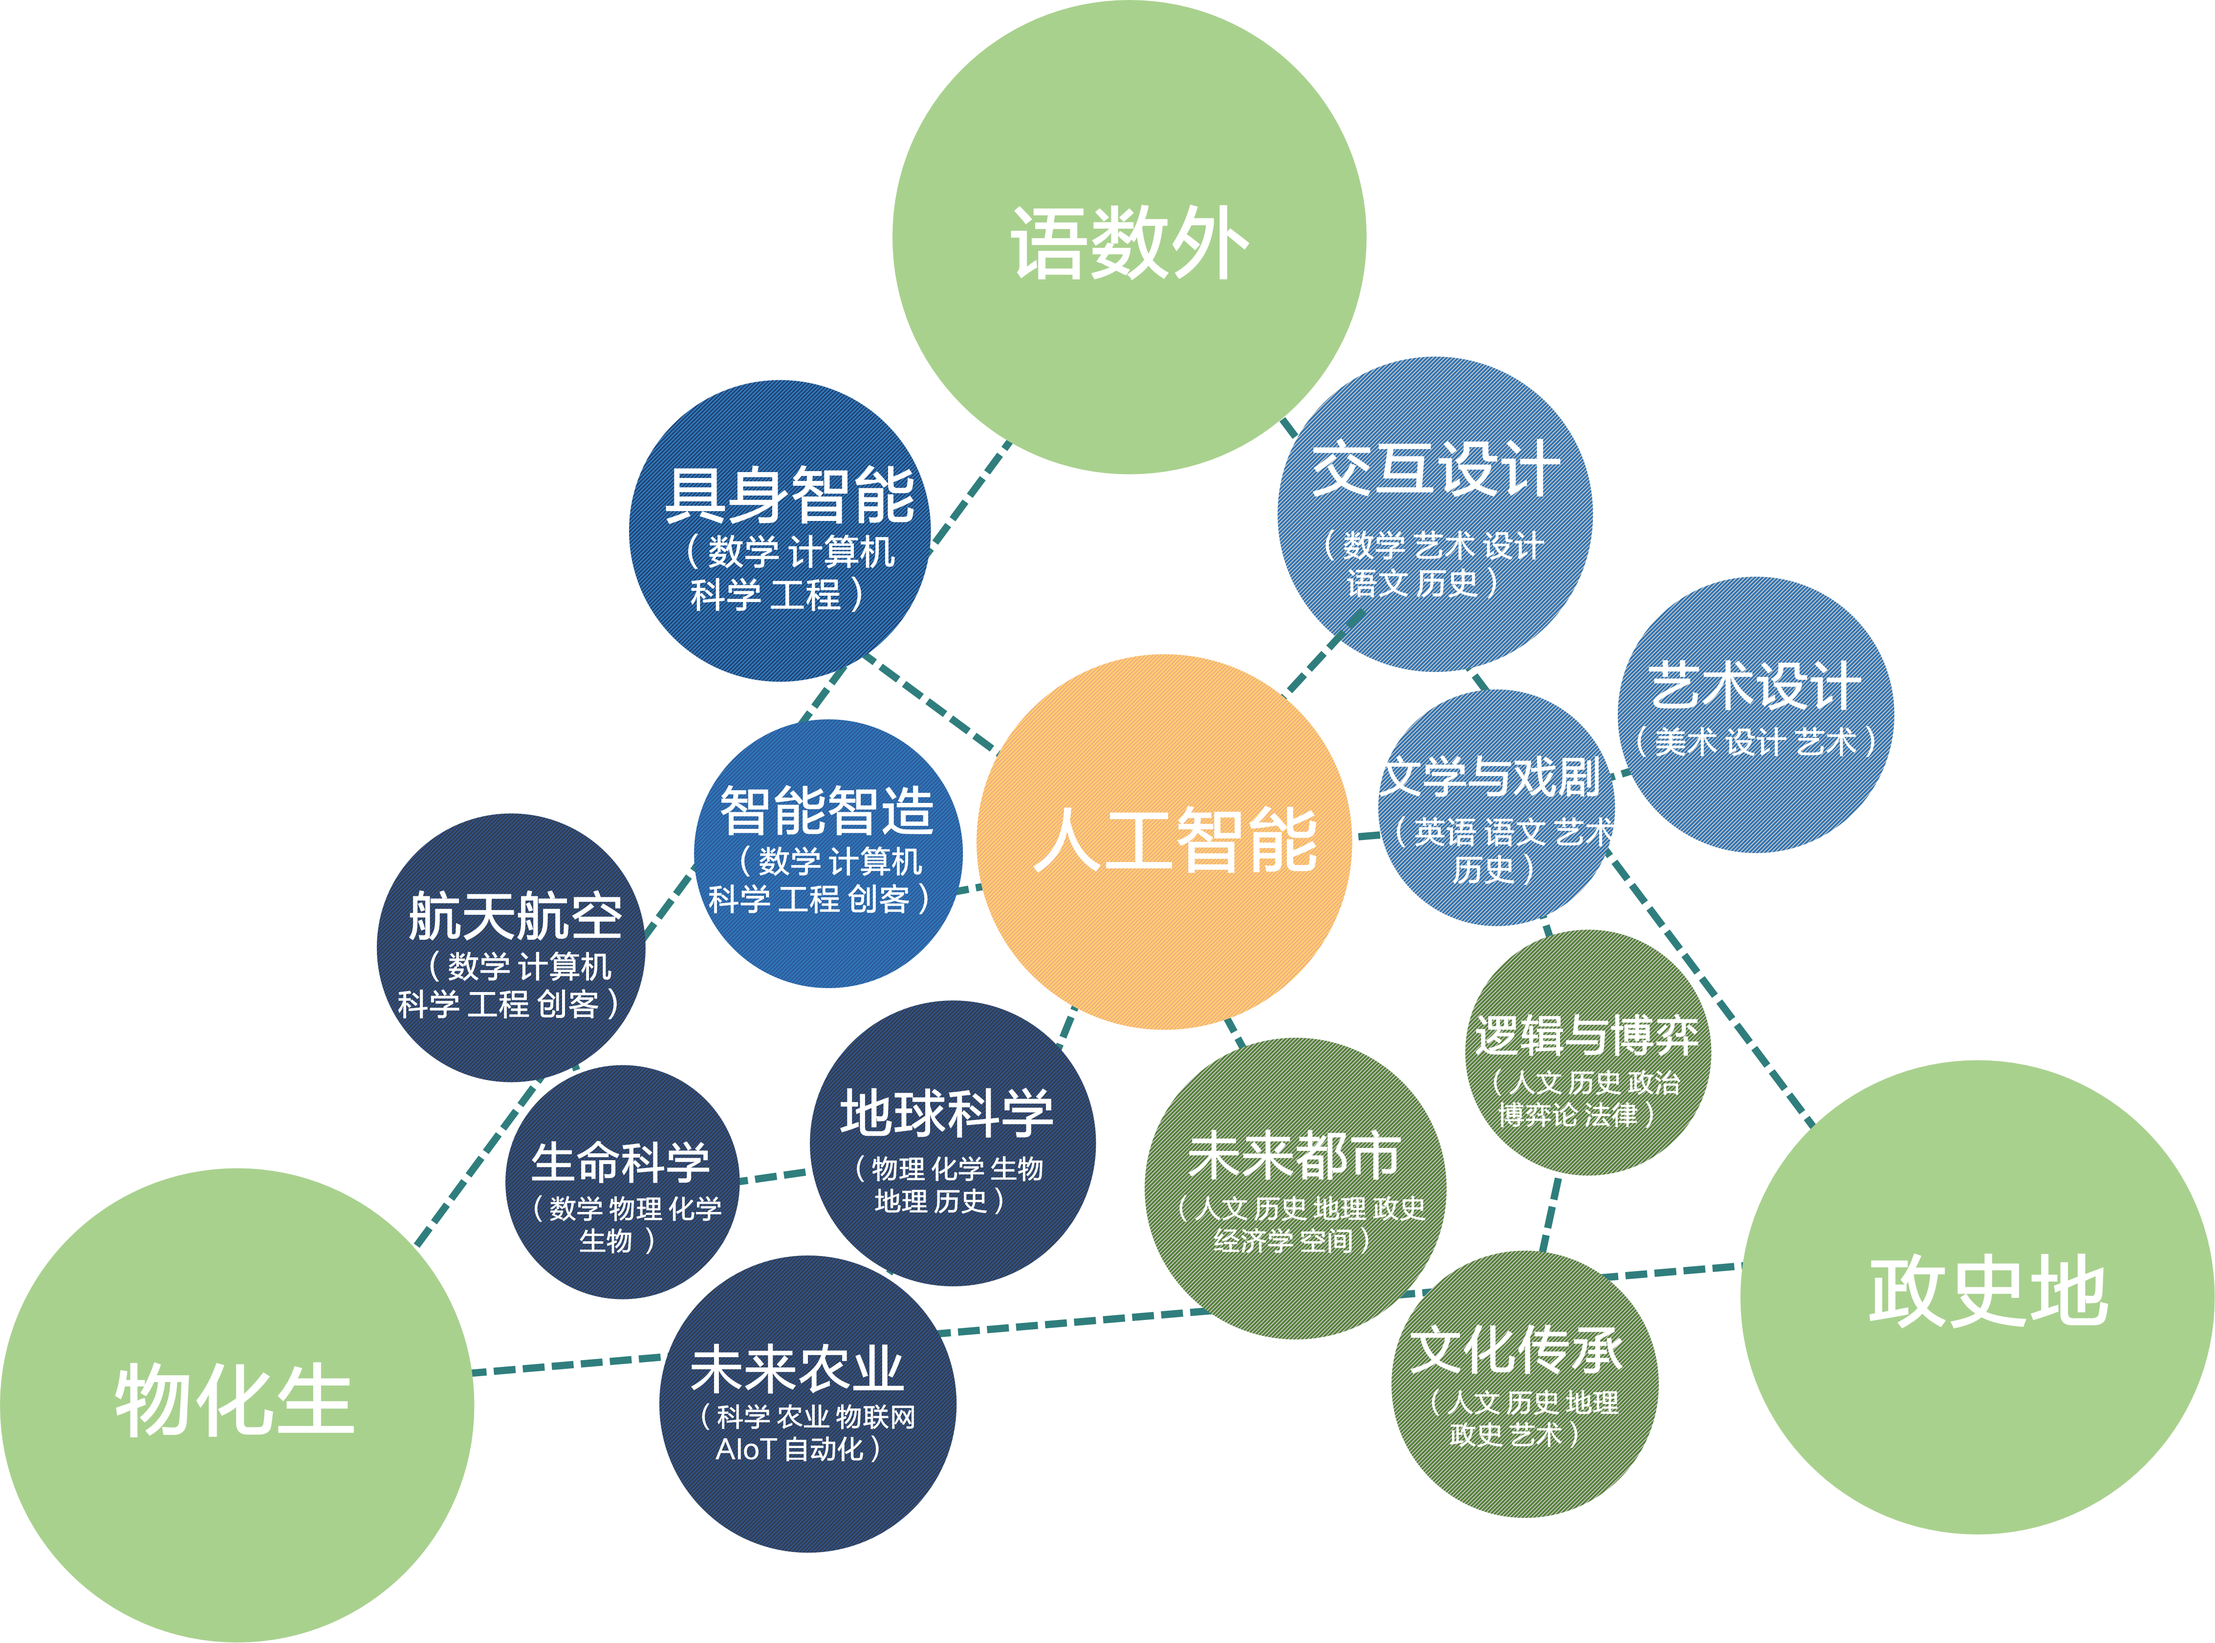
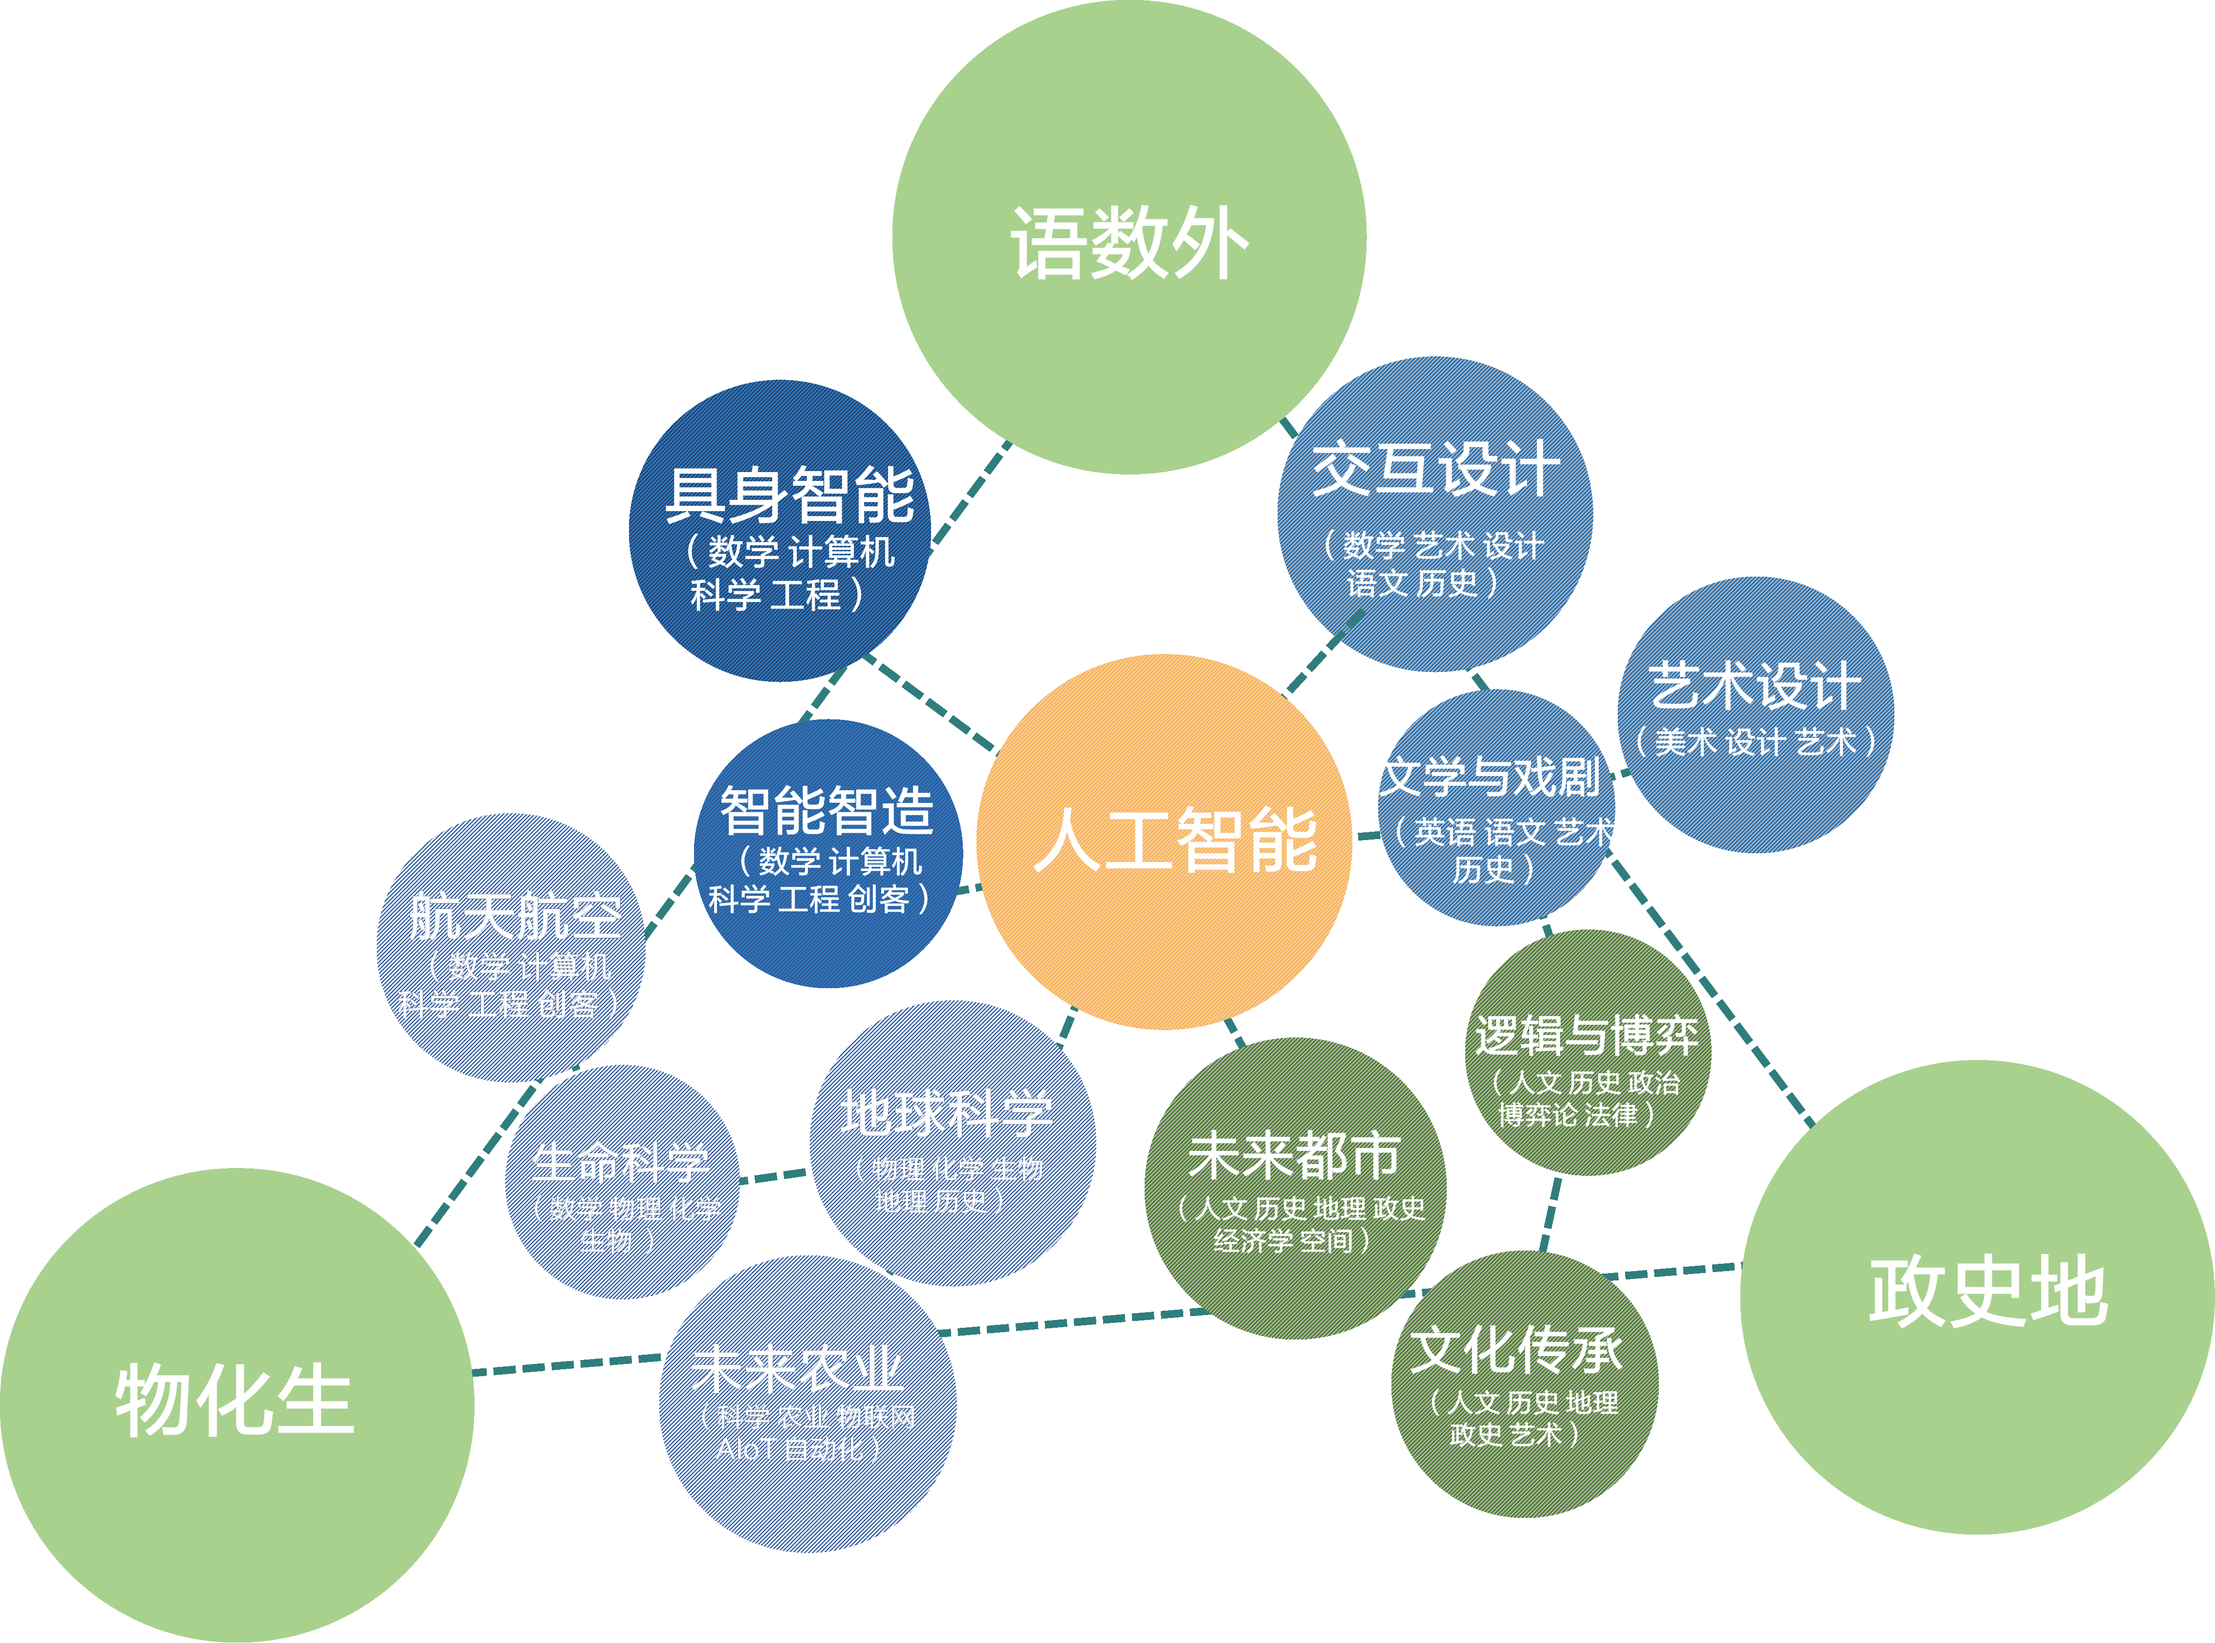
Put the curriculum map on paper without a black card, and drop 档案 from the public chrome.

Changed region(s): [[0.1556, 0.4997, 0.4978, 0.9682], [0.0933, 0.9994, 0.1244, 1.0]]

diff --git a/src/seed/public-content.ts b/src/seed/public-content.ts
@@ -234,11 +234,30 @@ export async function ensurePublicComposer(payload: Payload) {
   if (!settings.siteNameEn || settings.siteNameEn === 'PLANET ACADEMY') patch.siteNameEn = 'CRADLE-X'
   if (!settings.tagline) patch.tagline = '未来无边界学校'
   if (!settings.footerNote) {
-    patch.footerNote = '星球学院是一所未来无边界学校。公开门户先定位学校，再进入九个场景里的课程。公开成果默认匿名。'
+    patch.footerNote = '星球学院是一所未来无边界学校。公开门户先定位学校，再进入九个场景里的课程。'
+  } else if (String(settings.footerNote).includes('公开成果默认匿名')) {
+    const cleaned = String(settings.footerNote)
+      .replace(/公开成果默认匿名[。.]?/g, '')
+      .replace(/\s{2,}/g, ' ')
+      .replace(/。[。]+/g, '。')
+      .trim()
+    patch.footerNote =
+      cleaned || '星球学院是一所未来无边界学校。公开门户先定位学校，再进入九个场景里的课程。'
   }
   if (!settings.paradigmVersion) patch.paradigmVersion = 'B3.0'
   const navText = JSON.stringify(nav || [])
-  if (!nav || !nav.length || navText.includes('/philosophy') || navText.includes('/scenes"') || navText.includes('理念')) {
+  const navDirty =
+    !nav ||
+    !nav.length ||
+    navText.includes('/philosophy') ||
+    navText.includes('/scenes"') ||
+    navText.includes('理念') ||
+    navText.includes('/paradigm') ||
+    navText.includes('/projects') ||
+    navText.includes('教育范式') ||
+    navText.includes('项目成果') ||
+    navText.includes('档案')
+  if (navDirty) {
     patch.nav = [
       { label: '首页', href: '/', visible: true },
       { label: '课程体系', href: '/curriculum', visible: true },

diff --git a/src/components/site/SiteFooter.tsx b/src/components/site/SiteFooter.tsx
@@ -12,9 +12,8 @@ export function SiteFooter({ site }: { site?: SiteChrome }) {
       <div className="container-wide grid gap-10 pb-16 pt-4 md:grid-cols-12">
         <div className="md:col-span-5">
           <Wordmark className="text-3xl text-white" />
-          <p className="mt-4 text-xs text-white/55">公开成果默认匿名</p>
         </div>
-        <div className="md:col-span-3">
+        <div className="md:col-span-4">
           <p className="kicker text-white/50">主路径</p>
           <ul className="mt-3 space-y-2 text-sm text-white">
             {items.map((item) => (
@@ -31,22 +30,7 @@ export function SiteFooter({ site }: { site?: SiteChrome }) {
             </li>
           </ul>
         </div>
-        <div className="md:col-span-2">
-          <p className="kicker text-white/50">档案</p>
-          <ul className="mt-3 space-y-2 text-sm text-white">
-            <li>
-              <Link href="/paradigm" className="no-underline hover:opacity-70">
-                教育范式
-              </Link>
-            </li>
-            <li>
-              <Link href="/projects" className="no-underline hover:opacity-70">
-                项目成果
-              </Link>
-            </li>
-          </ul>
-        </div>
-        <div className="md:col-span-2">
+        <div className="md:col-span-3">
           <p className="kicker text-white/50">关于</p>
           <ul className="mt-3 space-y-2 text-sm text-white">
             <li>

diff --git a/src/lib/site-public.ts b/src/lib/site-public.ts
@@ -1,11 +1,29 @@
 export type NavItem = { label: string; href: string; visible?: boolean | null }
 
-const DROP = new Set(['/philosophy', '/scenes', '理念', '场景'])
+const DROP = new Set([
+  '/philosophy',
+  '/scenes',
+  '理念',
+  '场景',
+  '/paradigm',
+  '/projects',
+  '档案',
+  '教育范式',
+  '项目成果',
+])
+
+function dropped(item: NavItem) {
+  if (DROP.has(item.href) || DROP.has(item.label)) return true
+  const href = item.href.split('?')[0]
+  if (href === '/paradigm' || href.startsWith('/paradigm/')) return true
+  if (href === '/projects' || href.startsWith('/projects/')) return true
+  return false
+}
 
 export function visibleNav(nav: NavItem[]) {
   const cleaned = nav.filter((item) => {
     if (item.visible === false || !item.label || !item.href) return false
-    if (DROP.has(item.href) || DROP.has(item.label)) return false
+    if (dropped(item)) return false
     return true
   })
   if (!cleaned.some((item) => item.href === '/curriculum' || item.label === '课程体系')) {

diff --git a/src/seed/index.ts b/src/seed/index.ts
@@ -672,7 +672,7 @@ export async function seedIfEmpty(payload: Payload) {
         siteName: '星球学院',
         siteNameEn: 'CRADLE-X',
         tagline: '面向 AI 时代的 K-12 未来创新教育范式',
-        footerNote: 'B1.0 为唯一范式母本。C1.3 仅以 c13_* 字段补充工程化信息。公开成果默认匿名。',
+        footerNote: 'B1.0 为唯一范式母本。C1.3 仅以 c13_* 字段补充工程化信息。',
         contactEmail: 'hello@planetacad.one',
         paradigmVersion: 'B3.0',
         paradigmDate: '2026',

diff --git a/src/app/(frontend)/curriculum/page.tsx b/src/app/(frontend)/curriculum/page.tsx
@@ -14,7 +14,7 @@ export default function CurriculumPage() {
     <>
       <section className="container-wide pb-10 pt-8">
         <h1 className="sr-only">课程体系</h1>
-        <article className="panel diagram-panel diagram-panel--ink">
+        <article className="curriculum-map">
           <img src="/samples/curriculum-system.png" alt="课程体系：以人工智能为中心的跨学科图谱" />
         </article>
       </section>

diff --git a/src/lib/site.ts b/src/lib/site.ts
@@ -57,7 +57,7 @@ export const DEFAULT_SITE: SiteChrome = {
   siteName: '星球学院',
   siteNameEn: 'CRADLE-X',
   tagline: '未来无边界学校',
-  footerNote: '公开成果默认匿名。第一阶段不提供 LMS、支付或学生账号。',
+  footerNote: '第一阶段不提供 LMS、支付或学生账号。',
   contactEmail: '',
   paradigmVersion: 'B3.0',
   nav: DEFAULT_NAV,

diff --git a/src/app/(frontend)/styles.css b/src/app/(frontend)/styles.css
@@ -1172,6 +1172,19 @@ html[data-motion='reduce'] .flip-card__inner {
   letter-spacing: 0.04em;
   line-height: 1.55;
 }
+
+.curriculum-map {
+  display: flex;
+  justify-content: center;
+  background: transparent;
+}
+.curriculum-map img {
+  display: block;
+  width: 70%;
+  max-width: 820px;
+  height: auto;
+}
+
 .diagram-panel {
   overflow: hidden;
 }
